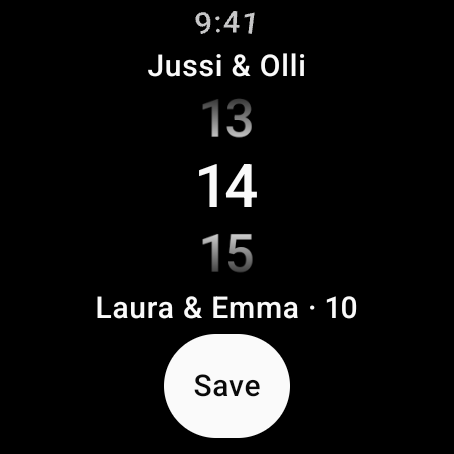
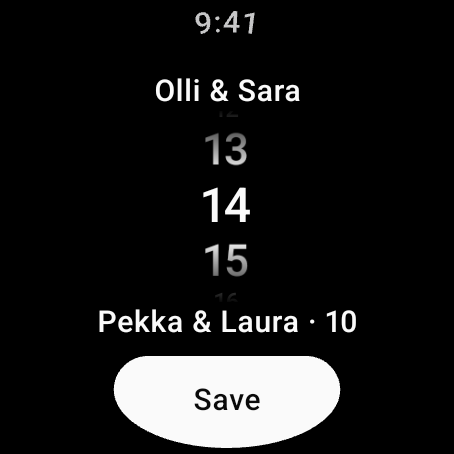
fix(wear): fit round screens at large font sizes; refresh Wear screenshots
Play rejected the Wear OS app (font size, watch shapes): text and
controls were cut off by the screen edge at larger system fonts.

- Lists use SurfaceTransformation + transformedHeight and the minimum
  list content padding, so items shrink at the curved edges and the last
  item is fully visible when scrolled to the end.
- Score picker keeps its labels inside round-safe insets; Save is an
  EdgeButton; numbers use displaySmall so the picker fits small watches.
- Edge button labels stay on one line ("N left" instead of "N to score").
- Screenshot script taps the new position of the second recent group.

Changed region(s): [[0.2159, 0.6476, 0.8018, 0.9868], [0.3084, 0.0925, 0.6784, 0.6167]]

diff --git a/apps/android/wear/src/main/java/app/americanoo/wear/ui/Screens.kt b/apps/android/wear/src/main/java/app/americanoo/wear/ui/Screens.kt
@@ -1,6 +1,6 @@
 package app.americanoo.wear.ui
 
-import androidx.compose.foundation.layout.Arrangement
+import androidx.compose.foundation.layout.Box
 import androidx.compose.foundation.layout.Column
 import androidx.compose.foundation.layout.fillMaxSize
 import androidx.compose.foundation.layout.fillMaxWidth
@@ -12,22 +12,32 @@ import androidx.compose.runtime.remember
 import androidx.compose.runtime.setValue
 import androidx.compose.ui.Alignment
 import androidx.compose.ui.Modifier
+import androidx.compose.ui.platform.LocalConfiguration
 import androidx.compose.ui.text.style.TextAlign
 import androidx.compose.ui.text.style.TextOverflow
 import androidx.compose.ui.unit.dp
 import androidx.wear.compose.foundation.lazy.TransformingLazyColumn
+import androidx.wear.compose.foundation.lazy.TransformingLazyColumnItemScope
 import androidx.wear.compose.foundation.lazy.itemsIndexed
 import androidx.wear.compose.foundation.lazy.rememberTransformingLazyColumnState
 import androidx.wear.compose.material3.AlertDialog
 import androidx.wear.compose.material3.AlertDialogDefaults
 import androidx.wear.compose.material3.Button
 import androidx.wear.compose.material3.ButtonDefaults
+import androidx.wear.compose.material3.CardDefaults
 import androidx.wear.compose.material3.EdgeButton
+import androidx.wear.compose.material3.EdgeButtonSize
 import androidx.wear.compose.material3.ListHeader
+import androidx.wear.compose.material3.ListHeaderDefaults
 import androidx.wear.compose.material3.MaterialTheme
 import androidx.wear.compose.material3.ScreenScaffold
+import androidx.wear.compose.material3.SurfaceTransformation
 import androidx.wear.compose.material3.Text
+import androidx.wear.compose.material3.TextDefaults
 import androidx.wear.compose.material3.TitleCard
+import androidx.wear.compose.material3.lazy.TransformationSpec
+import androidx.wear.compose.material3.lazy.rememberTransformationSpec
+import androidx.wear.compose.material3.lazy.transformedHeight
 import app.americanoo.data.GameStatus
 import app.americanoo.data.LocalGame
 import app.americanoo.data.RecentGroup
@@ -41,29 +51,47 @@ import app.americanoo.engine.teamName
 private fun GameState.team(ids: List<String>) = teamName(players, ids)
 private fun Match.scoreText() = if (isScored(this)) "$scoreA–$scoreB" else "–"
 
+/**
+ * List items shrink and fade as they near the top and bottom of a round screen, and keep the
+ * minimum padding there, so nothing is cut off by the screen edge at any font size.
+ */
+private fun TransformingLazyColumnItemScope.listItem(spec: TransformationSpec, minPadding: androidx.compose.ui.unit.Dp) =
+    Modifier.fillMaxWidth().transformedHeight(this, spec).minimumVerticalContentPadding(minPadding)
+
 @Composable
 fun HomeScreen(live: List<LocalGame>, groups: List<RecentGroup>, onGame: (String) -> Unit, onGroup: (Int) -> Unit) {
     val list = rememberTransformingLazyColumnState()
+    val spec = rememberTransformationSpec()
     ScreenScaffold(scrollState = list) { padding ->
         TransformingLazyColumn(state = list, contentPadding = padding) {
-            item { ListHeader { Text("Americanoo") } }
+            item {
+                ListHeader(listItem(spec, ListHeaderDefaults.minimumTopListContentPadding), transformation = SurfaceTransformation(spec)) {
+                    Text("Americanoo")
+                }
+            }
             itemsIndexed(live) { _, g ->
                 val state = g.game.state
                 Button(
                     onClick = { onGame(g.code) },
-                    modifier = Modifier.fillMaxWidth(),
-                    label = { Text(g.game.name, maxLines = 1, overflow = TextOverflow.Ellipsis) },
+                    modifier = listItem(spec, ButtonDefaults.minimumVerticalListContentPadding),
+                    transformation = SurfaceTransformation(spec),
+                    label = { Text(g.game.name, maxLines = 2, overflow = TextOverflow.Ellipsis) },
                     secondaryLabel = { Text("Round ${state.current + 1} · ${if (g.canEdit) "Live" else "Watching"}") },
                 )
             }
             if (groups.isNotEmpty()) {
-                item { ListHeader { Text("Start again") } }
+                item {
+                    ListHeader(listItem(spec, ListHeaderDefaults.minimumTopListContentPadding), transformation = SurfaceTransformation(spec)) {
+                        Text("Start again")
+                    }
+                }
                 itemsIndexed(groups) { i, group ->
                     Button(
                         onClick = { onGroup(i) },
-                        modifier = Modifier.fillMaxWidth(),
+                        modifier = listItem(spec, ButtonDefaults.minimumVerticalListContentPadding),
+                        transformation = SurfaceTransformation(spec),
                         colors = ButtonDefaults.filledTonalButtonColors(),
-                        label = { Text(group.name, maxLines = 1, overflow = TextOverflow.Ellipsis) },
+                        label = { Text(group.name, maxLines = 2, overflow = TextOverflow.Ellipsis) },
                         secondaryLabel = { Text("${group.names.size} players · ${group.modeName}") },
                     )
                 }
@@ -71,7 +99,7 @@ fun HomeScreen(live: List<LocalGame>, groups: List<RecentGroup>, onGame: (String
             if (live.isEmpty() && groups.isEmpty()) item {
                 Text(
                     "Create a game on your phone or at padel-americanoo.com to score it here.",
-                    Modifier.padding(horizontal = 8.dp),
+                    listItem(spec, TextDefaults.minimumBottomListContentPadding).padding(horizontal = 8.dp),
                     textAlign = TextAlign.Center,
                     style = MaterialTheme.typography.bodySmall,
                 )
@@ -85,16 +113,21 @@ fun HomeScreen(live: List<LocalGame>, groups: List<RecentGroup>, onGame: (String
 fun StartAgainScreen(group: RecentGroup?, onStart: () -> Unit) {
     if (group == null) return
     val list = rememberTransformingLazyColumnState()
-    ScreenScaffold(scrollState = list, edgeButton = { EdgeButton(onClick = onStart) { Text("Start") } }) { padding ->
+    val spec = rememberTransformationSpec()
+    ScreenScaffold(scrollState = list, edgeButton = { EdgeButton(onClick = onStart) { Text("Start", maxLines = 1, overflow = TextOverflow.Ellipsis) } }) { padding ->
         TransformingLazyColumn(state = list, contentPadding = padding) {
-            item { ListHeader { Text(group.name, maxLines = 2, textAlign = TextAlign.Center) } }
+            item {
+                ListHeader(listItem(spec, ListHeaderDefaults.minimumTopListContentPadding), transformation = SurfaceTransformation(spec)) {
+                    Text(group.name, textAlign = TextAlign.Center)
+                }
+            }
             item {
                 val courts = group.settings.courts
                 Text(
                     "${group.modeName} · $courts court${if (courts == 1) "" else "s"}",
                     style = MaterialTheme.typography.bodySmall,
                     textAlign = TextAlign.Center,
-                    modifier = Modifier.fillMaxWidth(),
+                    modifier = listItem(spec, TextDefaults.minimumTopListContentPadding),
                 )
             }
             item {
@@ -102,7 +135,7 @@ fun StartAgainScreen(group: RecentGroup?, onStart: () -> Unit) {
                     group.names.joinToString(", "),
                     style = MaterialTheme.typography.bodyMedium,
                     textAlign = TextAlign.Center,
-                    modifier = Modifier.fillMaxWidth().padding(top = 8.dp),
+                    modifier = listItem(spec, TextDefaults.minimumBottomListContentPadding).padding(top = 8.dp, start = 8.dp, end = 8.dp),
                 )
             }
         }
@@ -120,6 +153,7 @@ fun GameScreen(game: LocalGame?, onMatch: (round: Int, match: Int) -> Unit, onNe
     val live = game.game.status == GameStatus.Live && game.canEdit
     var confirmFinish by remember { mutableStateOf(false) }
     val left = round.matches.count { !isScored(it) }
+    val spec = rememberTransformationSpec()
 
     ScreenScaffold(
         scrollState = list,
@@ -132,16 +166,18 @@ fun GameScreen(game: LocalGame?, onMatch: (round: Int, match: Int) -> Unit, onNe
                     when (status) {
                         AdvanceStatus.Ready -> "Next round"
                         AdvanceStatus.Finished -> "Finish"
-                        AdvanceStatus.Incomplete -> "$left to score"
+                        AdvanceStatus.Incomplete -> "$left left"
                     },
+                    maxLines = 1,
+                    overflow = TextOverflow.Ellipsis,
                 )
             }
         },
     ) { padding ->
         TransformingLazyColumn(state = list, contentPadding = padding) {
             item {
-                ListHeader {
-                    Text("Round ${state.current + 1}" + (state.plannedRounds?.let { " of $it" } ?: ""))
+                ListHeader(listItem(spec, ListHeaderDefaults.minimumTopListContentPadding), transformation = SurfaceTransformation(spec)) {
+                    Text("Round ${state.current + 1}" + (state.plannedRounds?.let { " of $it" } ?: ""), textAlign = TextAlign.Center)
                 }
             }
             itemsIndexed(round.matches) { i, m ->
@@ -150,7 +186,8 @@ fun GameScreen(game: LocalGame?, onMatch: (round: Int, match: Int) -> Unit, onNe
                     enabled = live,
                     title = { Text("Court ${m.court}") },
                     time = { Text(m.scoreText()) },
-                    modifier = Modifier.fillMaxWidth(),
+                    modifier = listItem(spec, CardDefaults.minimumVerticalListContentPadding),
+                    transformation = SurfaceTransformation(spec),
                 ) {
                     Text(state.team(m.teamA), maxLines = 2, overflow = TextOverflow.Ellipsis)
                     Text(state.team(m.teamB), maxLines = 2, overflow = TextOverflow.Ellipsis)
@@ -161,13 +198,23 @@ fun GameScreen(game: LocalGame?, onMatch: (round: Int, match: Int) -> Unit, onNe
                     "Sitting out: " + round.byes.joinToString(", ") { id -> state.players.firstOrNull { it.id == id }?.name ?: "?" },
                     style = MaterialTheme.typography.bodySmall,
                     textAlign = TextAlign.Center,
-                    modifier = Modifier.fillMaxWidth(),
+                    modifier = listItem(spec, TextDefaults.minimumBottomListContentPadding).padding(horizontal = 8.dp),
                 )
             }
             if (!game.canEdit) item {
-                Text("Watching: open the organizer link on your phone to score.", style = MaterialTheme.typography.bodySmall, textAlign = TextAlign.Center)
+                Text(
+                    "Watching: open the organizer link on your phone to score.",
+                    style = MaterialTheme.typography.bodySmall,
+                    textAlign = TextAlign.Center,
+                    modifier = listItem(spec, TextDefaults.minimumBottomListContentPadding).padding(horizontal = 8.dp),
+                )
             } else if (game.game.status == GameStatus.Done) item {
-                Text("Game finished", style = MaterialTheme.typography.bodySmall, textAlign = TextAlign.Center, modifier = Modifier.fillMaxWidth())
+                Text(
+                    "Game finished",
+                    style = MaterialTheme.typography.bodySmall,
+                    textAlign = TextAlign.Center,
+                    modifier = listItem(spec, TextDefaults.minimumBottomListContentPadding),
+                )
             }
         }
     }
@@ -219,16 +266,30 @@ fun ScoreScreen(state: GameState?, round: Int, match: Int, onSave: (Int?, Int?) 
 @Composable
 private fun Choices(title: String, options: List<Pair<String, () -> Unit>>) {
     val list = rememberTransformingLazyColumnState()
+    val spec = rememberTransformationSpec()
     ScreenScaffold(scrollState = list) { padding ->
         TransformingLazyColumn(state = list, contentPadding = padding) {
-            item { ListHeader { Text(title) } }
+            item {
+                ListHeader(listItem(spec, ListHeaderDefaults.minimumTopListContentPadding), transformation = SurfaceTransformation(spec)) {
+                    Text(title, textAlign = TextAlign.Center)
+                }
+            }
             itemsIndexed(options) { _, (label, onClick) ->
-                Button(onClick = onClick, modifier = Modifier.fillMaxWidth(), label = { Text(label, maxLines = 2, overflow = TextOverflow.Ellipsis) })
+                Button(
+                    onClick = onClick,
+                    modifier = listItem(spec, ButtonDefaults.minimumVerticalListContentPadding),
+                    transformation = SurfaceTransformation(spec),
+                    label = { Text(label, maxLines = 3, overflow = TextOverflow.Ellipsis) },
+                )
             }
         }
     }
 }
 
+/**
+ * A crown-driven number picker. Labels stay inside the round screen's safe area (well below the
+ * time and above the curved Save button), so larger system fonts ellipsize instead of clipping.
+ */
 @Composable
 private fun PointsPicker(label: String, max: Int, initial: Int, other: (Int) -> String, onDone: (Int) -> Unit) {
     val picker = androidx.wear.compose.material3.rememberPickerState(
@@ -236,24 +297,36 @@ private fun PointsPicker(label: String, max: Int, initial: Int, other: (Int) -> 
         initiallySelectedIndex = initial.coerceIn(0, max),
         shouldRepeatOptions = false,
     )
+    val screen = LocalConfiguration.current
+    val width = screen.screenWidthDp.dp
+    val height = screen.screenHeightDp.dp
     ScreenScaffold { _ ->
-        Column(
-            Modifier.fillMaxSize().padding(top = 24.dp, bottom = 8.dp, start = 24.dp, end = 24.dp),
-            horizontalAlignment = Alignment.CenterHorizontally,
-        ) {
-            Text(label, maxLines = 1, overflow = TextOverflow.Ellipsis, style = MaterialTheme.typography.labelMedium)
-            androidx.wear.compose.material3.Picker(
-                state = picker,
-                contentDescription = { "$label: ${picker.selectedOptionIndex}" },
-                modifier = Modifier.fillMaxWidth(0.6f).weight(1f),
-            ) { i -> Text("$i", style = MaterialTheme.typography.displayMedium) }
-            Text(other(picker.selectedOptionIndex), maxLines = 1, overflow = TextOverflow.Ellipsis, style = MaterialTheme.typography.labelMedium)
-            Button(
+        Box(Modifier.fillMaxSize()) {
+            Column(
+                Modifier
+                    .fillMaxSize()
+                    .padding(top = height * 0.16f, bottom = height * 0.25f, start = width * 0.14f, end = width * 0.14f),
+                horizontalAlignment = Alignment.CenterHorizontally,
+            ) {
+                Text(label, maxLines = 1, overflow = TextOverflow.Ellipsis, textAlign = TextAlign.Center, style = MaterialTheme.typography.labelMedium)
+                androidx.wear.compose.material3.Picker(
+                    state = picker,
+                    contentDescription = { "$label: ${picker.selectedOptionIndex}" },
+                    modifier = Modifier.fillMaxWidth(0.7f).weight(1f),
+                ) { i -> Text("$i", style = MaterialTheme.typography.displaySmall) }
+                Text(
+                    other(picker.selectedOptionIndex),
+                    maxLines = 1,
+                    overflow = TextOverflow.Ellipsis,
+                    textAlign = TextAlign.Center,
+                    style = MaterialTheme.typography.labelMedium,
+                )
+            }
+            EdgeButton(
                 onClick = { onDone(picker.selectedOptionIndex) },
-                modifier = Modifier.padding(top = 4.dp),
-                label = { Text("Save", textAlign = TextAlign.Center, modifier = Modifier.fillMaxWidth()) },
-            )
+                modifier = Modifier.align(Alignment.BottomCenter),
+                buttonSize = EdgeButtonSize.ExtraSmall,
+            ) { Text("Save", maxLines = 1, overflow = TextOverflow.Ellipsis) }
         }
     }
 }
-
